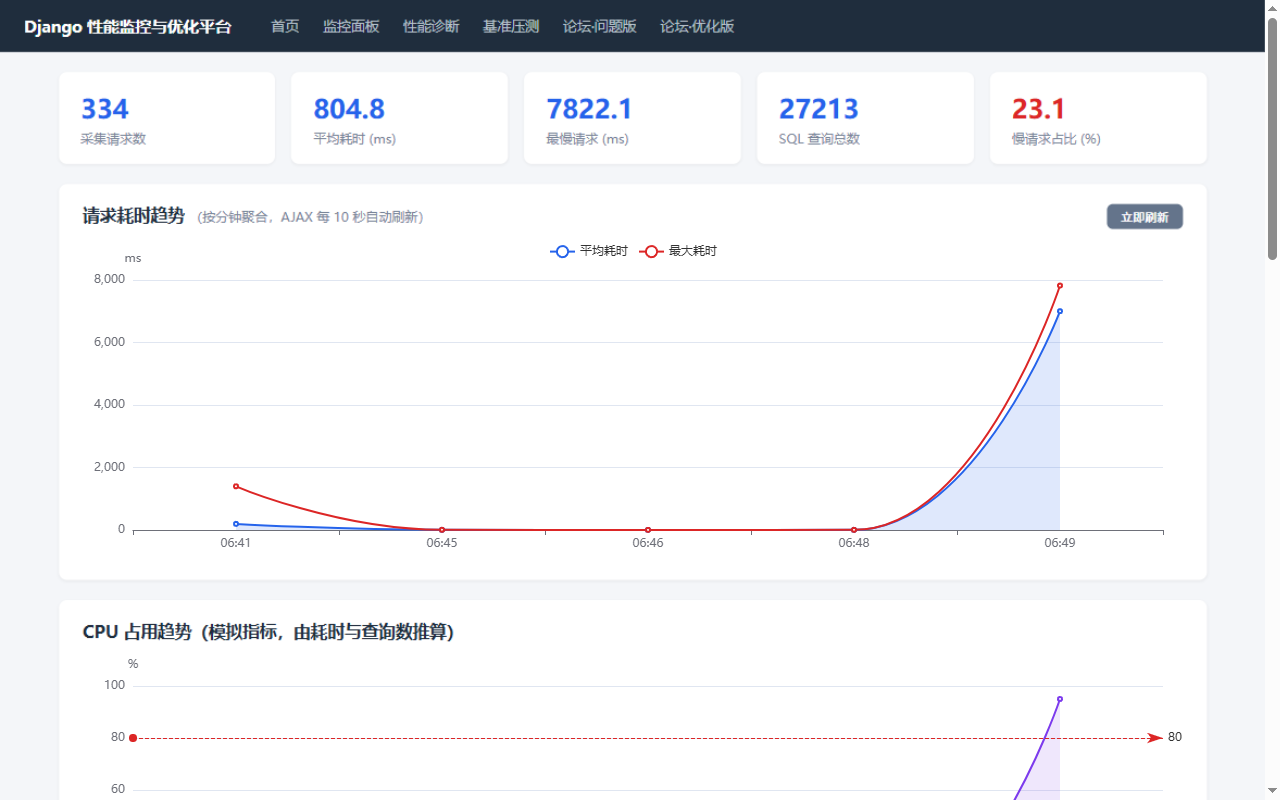
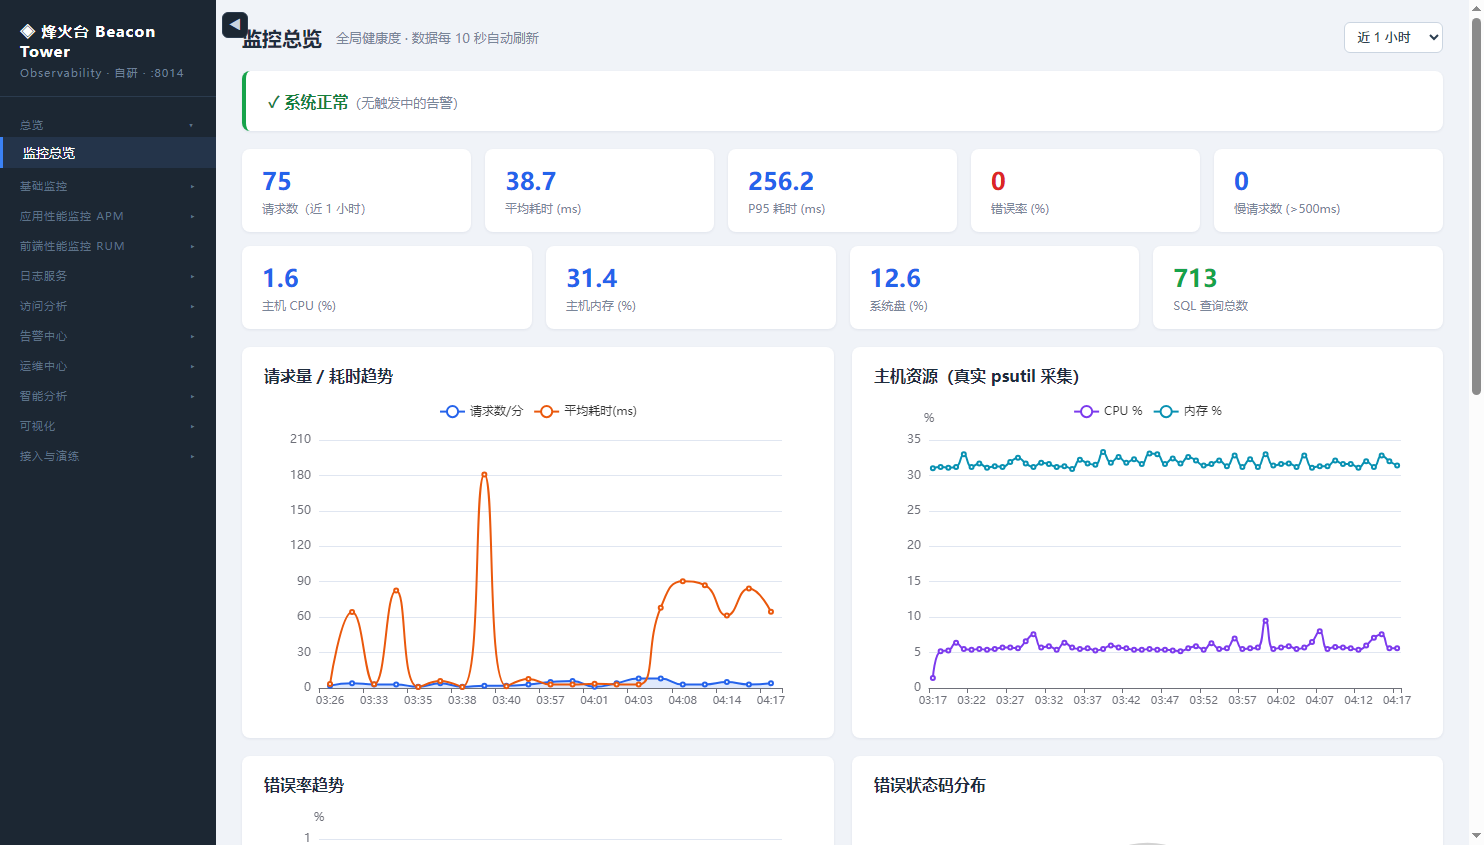
docs: 用线上实例重做整套截图，替换前身项目的旧品牌图
旧图还是"Django 性能监控与优化平台"的界面，与现在的烽火台对不上，
README 里也一直没有图。现在 14 张全部取自 https://beacon.lianghui.vip 实机：
总览、APM、调用链瀑布、数据库分析、主机、日志、告警、SLO、拨测、
清理中心、静态诊断、自定义大盘、异常检测、相关性矩阵。

接入中心（页面明文显示接入令牌）与登录页（显示演示密码）刻意不截。
项目展示里"预览图基于演示数据排版"的免责声明一并去掉——主机曲线是 psutil 真实读数。

diff --git a/项目展示.md b/项目展示.md
@@ -30,15 +30,21 @@
 
 ## 效果预览
 
-监控总览：KPI、请求/主机双趋势、错误分布、服务健康表、触发中告警横幅，10 秒自动刷新。
+以下截图取自线上实例 <https://beacon.lianghui.vip>，主机曲线是 psutil 真实读数。
 
-![监控总览](docs/screenshots/latency_trend.png)
+监控总览：KPI、请求量/耗时趋势、主机资源双曲线、错误分布、服务健康表、触发中告警横幅，10 秒自动刷新。
 
-APM 接口分析：问题版（58 条 SQL、418ms）与优化版（4.5 条、46ms）的差异一目了然，每条请求可点进 TraceID 瀑布图：
+![监控总览](docs/screenshots/dashboard.png)
 
-![诊断报告](docs/screenshots/diagnose_report.png)
+APM 接口分析：每条路径的量/耗时分布/P95/错误率/平均 SQL 次数一表看全，点进任意 TraceID 看 SQL 级瀑布图。
 
-*预览图基于演示数据排版，实际运行效果以平台页面为准。*
+![APM 接口分析](docs/screenshots/apm.png)
+
+![调用链瀑布图](docs/screenshots/trace.png)
+
+智能分析的相关性矩阵：皮尔逊系数两两成对，色阶 + 数值 + 显著相关对解读，全部可回溯到原始分钟序列。
+
+![相关性分析](docs/screenshots/analytics_corr.png)
 
 ## 你将学到
 

diff --git a/README.md b/README.md
@@ -17,6 +17,16 @@
 > 内置**整站登录认证**与**接入令牌**，支持通过自研 Agent 接入**多台服务器**。
 > 开发端口：**8014**。
 
+### 效果预览（截图取自线上实例）
+
+| 监控总览 | APM 接口分析 |
+|---|---|
+| ![监控总览](docs/screenshots/dashboard.png) | ![APM](docs/screenshots/apm.png) |
+| **调用链瀑布图** | **相关性分析矩阵** |
+| ![调用链](docs/screenshots/trace.png) | ![相关性](docs/screenshots/analytics_corr.png) |
+| **主机监控（psutil 真实读数）** | **日志查询** |
+| ![主机](docs/screenshots/host.png) | ![日志](docs/screenshots/logs.png) |
+
 ## 一、项目背景（从"性能监控"到"可观测平台"）
 
 本项目前身是一个 Django 性能监控与优化平台（内置问题论坛 + AST 诊断），解决的是
